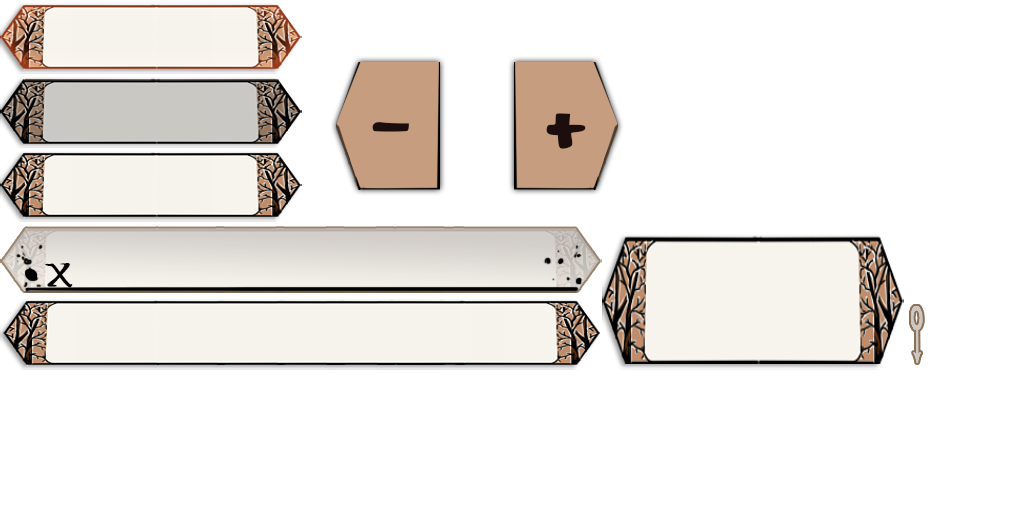
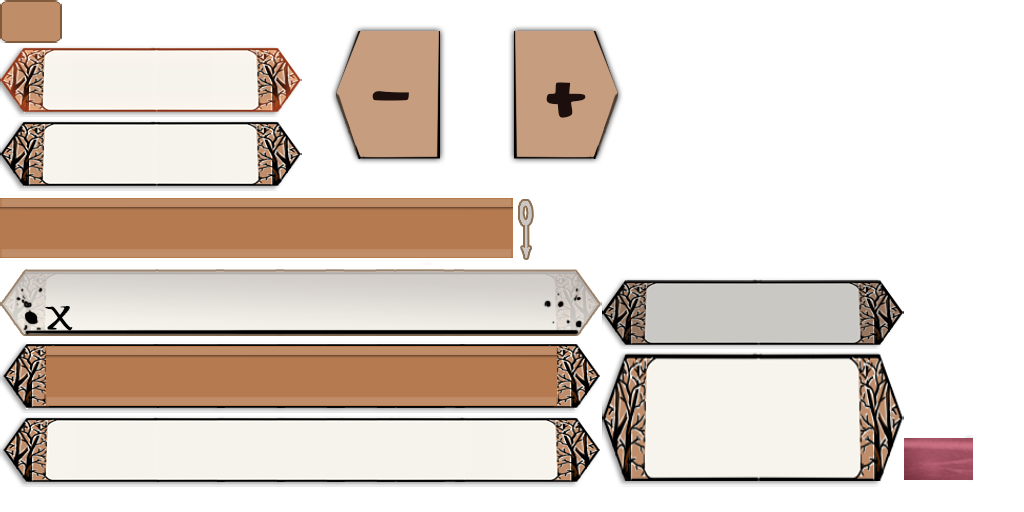
Initial implementation of option screen - sound slider with persistent preferences.

diff --git a/core/src/com/majalis/screens/OptionScreen.java b/core/src/com/majalis/screens/OptionScreen.java
@@ -1,31 +1,64 @@
 package com.majalis.screens;
 
+import com.badlogic.gdx.Gdx;
+import com.badlogic.gdx.Input.Keys;
+import com.badlogic.gdx.Preferences;
+import com.badlogic.gdx.assets.AssetManager;
+import com.badlogic.gdx.audio.Sound;
+import com.badlogic.gdx.graphics.Color;
 import com.badlogic.gdx.graphics.OrthographicCamera;
+import com.badlogic.gdx.scenes.scene2d.Actor;
+import com.badlogic.gdx.scenes.scene2d.actions.Actions;
+import com.badlogic.gdx.scenes.scene2d.ui.Skin;
+import com.badlogic.gdx.scenes.scene2d.ui.Slider;
+import com.badlogic.gdx.scenes.scene2d.utils.ChangeListener;
+import com.badlogic.gdx.utils.ObjectMap;
+import com.majalis.asset.AssetEnum;
 /*
  * The options/configuration screen.  UI that handles player input to save Preferences to a player's file system.
  */
 public class OptionScreen extends AbstractScreen {
-
-	private int clocktick;
 	
-	public OptionScreen(ScreenFactory factory, ScreenElements elements) {
+	public static final ObjectMap<String, Class<?>> resourceRequirements = new ObjectMap<String, Class<?>>();
+	static {
+		resourceRequirements.put(AssetEnum.UI_SKIN.getPath(), Skin.class);
+		resourceRequirements.put(AssetEnum.BUTTON_SOUND.getPath(), Sound.class);
+	}
+	
+	private final Preferences preferences;
+	public OptionScreen(ScreenFactory factory, ScreenElements elements, AssetManager assetManager) {
 		super(factory, elements);
-		clocktick = 0;
+		Skin skin = assetManager.get(AssetEnum.UI_SKIN.getPath(), Skin.class);
+		final Slider slider = new Slider(0, 1, .1f, false, skin);
+		preferences  = Gdx.app.getPreferences("trap-rpg-preferences");
+		
+		slider.setValue(preferences.getFloat("volume", 1));
+		slider.addListener(new ChangeListener() {
+	        @Override
+	        public void changed(ChangeEvent event, Actor actor) {
+	            final float val = slider.getValue();
+	            preferences.putFloat("volume", val);
+	        }
+	    });
+		slider.addAction(Actions.moveTo(500, 400));
+		this.addActor(slider);
 	}
 
 	@Override
 	public void render(float delta) {
 		super.render(delta);
 		OrthographicCamera camera = (OrthographicCamera) getCamera();
-        batch.setTransformMatrix(camera.view);
-		batch.setProjectionMatrix(camera.combined);
+		batch.setTransformMatrix(camera.view);
 		camera.update();
 		batch.begin();
-		font.draw(batch, "Options", 1125, 750);
-		font.draw(batch, String.valueOf(clocktick++), 1675, 500);
+		font.setColor(Color.WHITE);
+		font.draw(batch, String.valueOf((int)(preferences.getFloat("volume", 1) * 100)) +"%", 1200, 850);
 		batch.end();
-		if (clocktick >= 50)
+		
+		if (Gdx.input.isKeyJustPressed(Keys.ESCAPE)){
+			preferences.flush();
 			showScreen(ScreenEnum.MAIN_MENU);
+		}
 	}
 
 	@Override

diff --git a/core/src/com/majalis/screens/ScreenFactoryImpl.java b/core/src/com/majalis/screens/ScreenFactoryImpl.java
@@ -86,7 +86,10 @@ public class ScreenFactoryImpl implements ScreenFactory {
 					return new GameOverScreen(this, elements, assetManager);
 				}
 				break;
-			case OPTIONS: 	return new OptionScreen(this, elements);
+			case OPTIONS: 	
+				if (getAssetCheck(OptionScreen.resourceRequirements)){
+					return new OptionScreen(this, elements, assetManager);
+				}
 			case REPLAY: 	return new ReplayScreen(this, elements);
 			case EXIT: 		return new ExitScreen(this, elements);
 		}

diff --git a/core/src/com/majalis/asset/AssetEnum.java b/core/src/com/majalis/asset/AssetEnum.java
@@ -1,6 +1,8 @@
 package com.majalis.asset;
 
 public enum AssetEnum {
+	UI_SKIN("uiskin.json"),
+	
 	WORLD_MAP_UI("worldmap/CharacterInfo.png"),
 	WORLD_MAP_HOVER("worldmap/HoverBox.png"),
 	ARROW("worldmap/Arrow.png"),
@@ -54,6 +56,7 @@ public enum AssetEnum {
 	SLASH("animation/ClawAttack.png"),
 	
 	// sounds
+	BUTTON_SOUND("sound.wav"),
 	INTRO_SOUND("sounds/IntroSound.wav"),
 	UNPLUGGED_POP("sounds/UnpluggedPop.wav"),
 	ATTACK_SOUND("sounds/AttackSound.wav"),

diff --git a/core/src/com/majalis/traprpg/TrapRPG.java b/core/src/com/majalis/traprpg/TrapRPG.java
@@ -19,7 +19,6 @@ import com.majalis.world.GameWorldFactory;
  */
 public class TrapRPG extends Game {
 	public void create() {	
-		Gdx.app.getPreferences("trap-rpg-preferences").putFloat("volume", 1);
 		SaveManager saveManager = new SaveManager(false, "data/save.json");
 		EncounterReader encounterReader = new EncounterReader("script/encounters.json");
 		AssetManager assetManager = new AssetManager();

diff --git a/core/src/com/majalis/screens/SplashScreen.java b/core/src/com/majalis/screens/SplashScreen.java
@@ -39,8 +39,6 @@ public class SplashScreen extends AbstractScreen {
 				assetManager.load(path, pathToType.get(path));
 			}
 		}
-		
-		
 	}
 	
 	@Override
